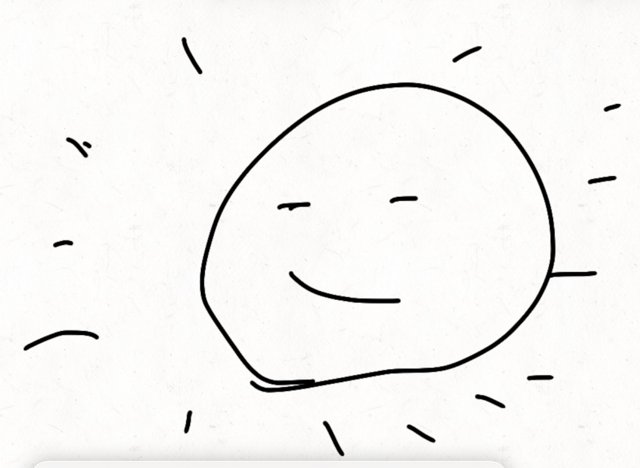
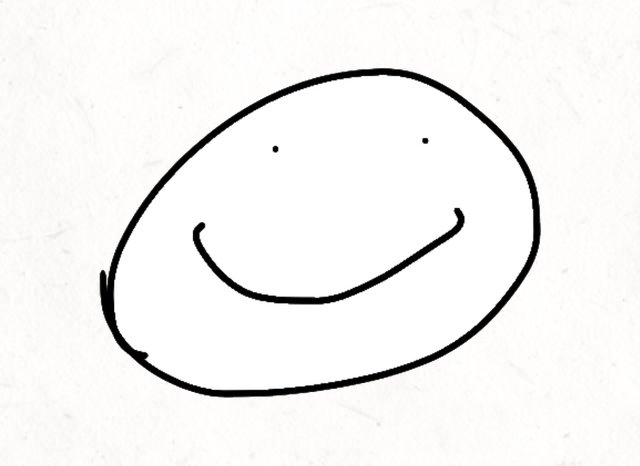
Add Ball, new Mr. Face Man Dude Guy Person picture, and no-password switching to DefinitelyNotAdmin273 on any device
Claude-Session: https://claude.ai/code/session_01JXXCmvj4G2NLYQFfTa7xbX

diff --git a/index.html b/index.html
@@ -1047,7 +1047,7 @@ body.ttt-full{overflow:hidden}
 <dialog id="altDialog">
   <form id="altForm">
     <h3>DefinitelyNotAdmin273</h3>
-    <p class="form-note">Your totally normal, definitely-not-the-creator account. Pick a password for it the first time. After that, switching is one tap.</p>
+    <p class="form-note">Your totally normal, definitely-not-the-creator account. Type its password one last time. After this, switching is one tap on every device.</p>
     <div class="field"><label for="altCode">Password for DefinitelyNotAdmin273</label><input id="altCode" type="password" minlength="6" autocomplete="new-password" required></div>
     <div class="row">
       <button class="btn green" type="submit" id="altGo">SWITCH</button>
@@ -1302,6 +1302,12 @@ const CONFIG = {
       facts: { 'Seen in': 'NWAOS 5', 'Voice': 'Eli\'s brother (deep voice)', 'Made by': 'Eli\'s brother' },
       desc: "\"The most powerful piece\" (it's a joke). Heart Balloon held Piece 2763 up to CYFATG Paper to ask if they were a gem, and they looked tiny. But in the end-credits scene with Sweater, they explain they're actually HUGE. Heart Balloon was just holding them far away from the camera." },
 
+    { group: 'other', name: 'Ball', img: 'images/characters/ball.jpg',
+      status: ['other', 'Never competed'],
+      facts: { 'Seen in': 'NWAOS 2 and Ball the Movie', 'Voice': 'Never talks' },
+      desc: "Just a ball. Ball never competed: in NWAOS 2 they were the prize for the safe players on Team Grim. They even got their own movie, Ball the Movie, where Spikester was the villain. Nobody knows if Ball is actually conscious.",
+      fun: "Ball was the very first NWAOS character ever made!" },
+
     { group: 'other', name: 'Find the Fire', img: 'images/characters/find-the-fire.jpg',
       status: ['other', 'Never joined'],
       facts: { 'Seen in': 'NWAOS 5', 'Voice': 'Eli' },
@@ -1360,6 +1366,7 @@ const CONFIG = {
     { id: 'floating-text', name: 'Floating Text',  anchor: '#commentList .comment.mine', style: 'right:16px;bottom:14px', r: -3, size: 92, afterFirstPost: true }, // only appears next to your own theory after you post one
     { id: 'face-mister',   name: 'Person Guy Dude Man Face Mister', anchor: '#music',   style: 'right:6px;bottom:-40px', r: 0, size: 40 },
     { id: 'baby-giant-snail', name: 'Baby Giant Snail', anchor: '#charList .char-card', style: 'right:18px;top:-20px', r: 6, size: 42 }, // riding on Giant Snail's card
+    { id: 'ball',          name: 'Ball',           anchor: '#episodes .section-head',   style: 'right:4%;bottom:-26px', r: 0, size: 34, added: true },   // added Nov 27, 2026
     { id: 'giant-snail',   name: 'Giant Snail',    anchor: 'footer',                    style: 'right:7%;top:14px', r: 0, size: 58 },
   ],
 
@@ -2177,7 +2184,8 @@ function renderFindBoard() {
   const found = findFound();
   $('#findCount').textContent = `${found.length} / ${CONFIG.findGame.length}`;
   $('#findWin').hidden = !findWon();
-  if (findWon() && !store.get('foundAll', false)) store.set('foundAll', true);
+  const wonBefore = CONFIG.findGame.filter(c => !c.added).every(c => found.includes(c.id));   // found everyone before Ball was added
+  if ((findWon() || wonBefore) && !store.get('foundAll', false)) store.set('foundAll', true);
   $('#findGrid').innerHTML = CONFIG.findGame.map(c => {
     const got = found.includes(c.id);
     return `<div class="find-slot ${got ? 'found' : ''}">${hatted(`<img src="${esc(c.img || 'images/find/' + c.id + '.png')}" alt="${got ? esc(c.name) : 'not found yet'}">`)}<span>${got ? esc(c.name) : '???'}</span></div>`;
@@ -2287,7 +2295,7 @@ function tttUnlocked(c, P = tttProgress()) {
   if (!c.unlock) return true;
   if (c.unlock.beat) return !!P.beat[c.unlock.beat];
   if (c.unlock.endless) return (P.best.endless || 0) >= c.unlock.endless;
-  if (c.unlock.findAll) return findWon();
+  if (c.unlock.findAll) return findWon() || !!store.get('foundAll', false);   // once earned, kept
   return false;
 }
 const tttImgs = {};
@@ -3334,6 +3342,11 @@ $('#switchBtn').addEventListener('click', async () => {
   if (!ME || !ME.admin || !altAuth) return;
   const u = await altUser();
   if (u && u.email === emailFor(ALT_NAME)) return switchTo('alt');
+  // new device: use the password saved in the creator-only part of the database
+  try {
+    const d = await db.collection('secret').doc('alt').get();
+    if (d.exists && d.data().pw) { toast('Switching...'); await altAuth.signInWithEmailAndPassword(emailFor(ALT_NAME), d.data().pw); return switchTo('alt'); }
+  } catch (e) { console.warn('alt auto', e); }
   $('#altMsg').textContent = ''; $('#altCode').value = ''; $('#altDialog').showModal();
 });
 $('#altCancel').addEventListener('click', () => $('#altDialog').close());
@@ -3350,6 +3363,8 @@ $('#altForm').addEventListener('submit', async e => {
       return flash($('#altMsg'), err2.code === 'auth/email-already-in-use' ? 'Wrong password for DefinitelyNotAdmin273.' : 'Couldn\'t switch. Try again!', 'err');
     }
   }
+  // remember it (only the creator account can read this) so no device ever asks again
+  try { await db.collection('secret').doc('alt').set({ pw, updated: Date.now() }); } catch (e) { console.warn('alt save', e); }
   switchTo('alt');
 });
 
